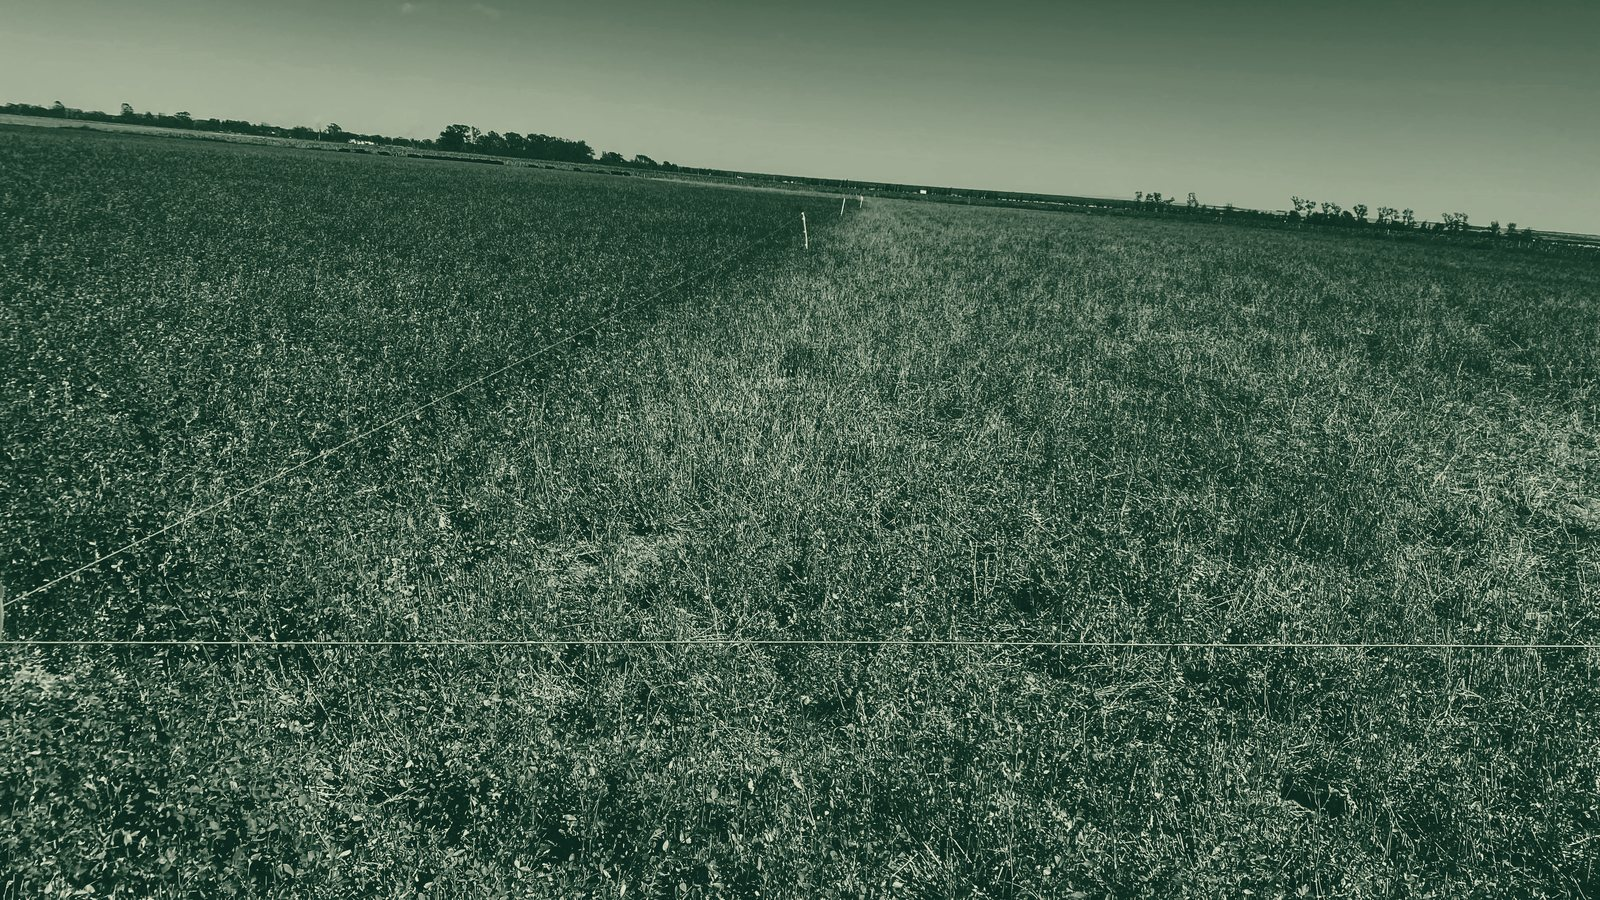
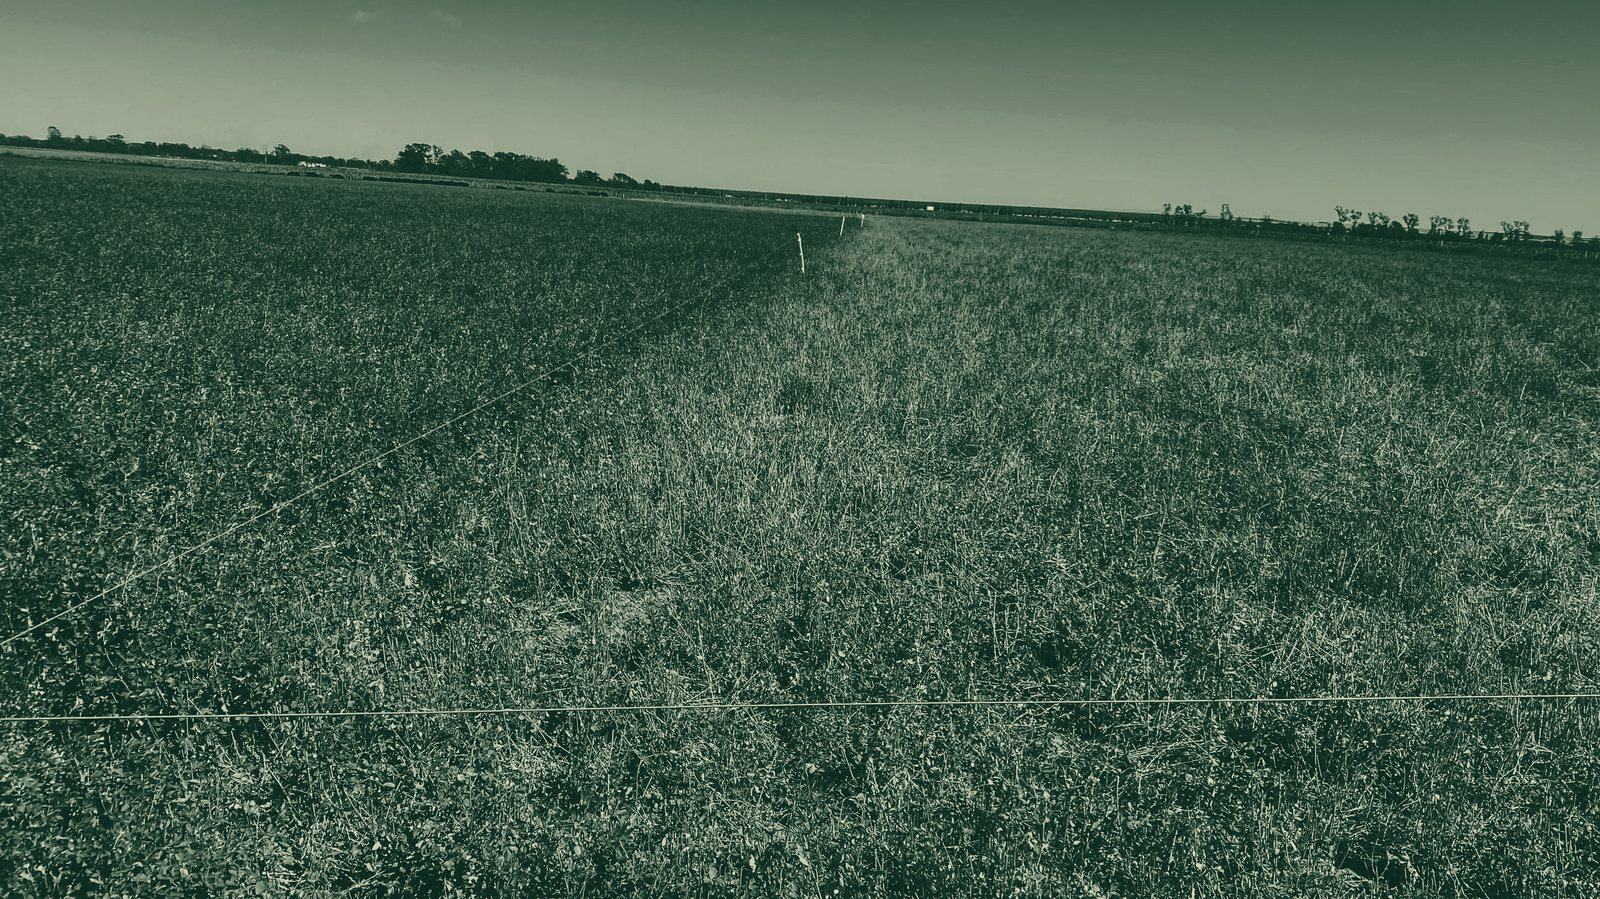
Demo fotos v2: set final de 5 (curado por el cliente), horizontes enderezados
Reemplaza pastoreo/rodeo por verdeo(5621), pastizal(8775), cria(114309), colorada(5977); mantiene manejo. Endereza horizonte de verdeo y manejo (~1deg). Bandas en Que es / Servicios / Datos / Que entregamos / Nuestro enfoque. FotoBanda con variante para fondo oscuro.

diff --git a/src/components/brand/FotoBanda.tsx b/src/components/brand/FotoBanda.tsx
@@ -3,16 +3,23 @@ import Image from "next/image";
 /**
  * Banda de foto accesoria: contenida (no full-bleed), redondeada, lazy.
  * Las fotos vienen tratadas en duotono de marca para integrarse a la paleta.
+ * `dark` ajusta el borde para secciones de fondo oscuro.
  */
 export default function FotoBanda({
   src,
   alt,
+  dark = false,
 }: {
   src: string;
   alt: string;
+  dark?: boolean;
 }) {
   return (
-    <div className="relative w-full aspect-[16/9] overflow-hidden rounded-2xl border border-verde-profundo/10 shadow-sm">
+    <div
+      className={`relative w-full aspect-[16/9] overflow-hidden rounded-2xl border ${
+        dark ? "border-blanco/10" : "border-verde-profundo/10 shadow-sm"
+      }`}
+    >
       <Image
         src={src}
         alt={alt}

diff --git a/src/components/AISection.tsx b/src/components/AISection.tsx
@@ -3,6 +3,7 @@
 import { motion, useInView } from "framer-motion";
 import { useRef } from "react";
 import BulletGroma from "@/components/brand/BulletGroma";
+import FotoBanda from "@/components/brand/FotoBanda";
 
 const aiUseCases = [
   "Integrar y procesar grandes volúmenes de información productiva, económica y ambiental",
@@ -71,6 +72,10 @@ export default function AISection() {
               no de decisiones automáticas.
             </span>
           </motion.p>
+
+          <div className="mt-12 sm:mt-16 max-w-3xl mx-auto">
+            <FotoBanda src="/fotos/colorada.jpg" alt="Vaca colorada en el campo" dark />
+          </div>
         </motion.div>
       </div>
     </section>

diff --git a/src/components/Servicios.tsx b/src/components/Servicios.tsx
@@ -3,6 +3,7 @@
 import { useState } from "react";
 import { ChevronDown } from "lucide-react";
 import FadeIn from "@/components/brand/FadeIn";
+import FotoBanda from "@/components/brand/FotoBanda";
 import { servicios, type Servicio } from "@/data/servicios";
 
 function ServicioItem({
@@ -160,6 +161,10 @@ export default function Servicios() {
               />
             </FadeIn>
           ))}
+        </div>
+
+        <div className="mt-12 sm:mt-16 max-w-3xl mx-auto">
+          <FotoBanda src="/fotos/pastizal.jpg" alt="Hacienda en pastizal natural" dark />
         </div>
       </div>
     </section>

diff --git a/src/components/Deliverables.tsx b/src/components/Deliverables.tsx
@@ -48,7 +48,7 @@ export default function Deliverables() {
         </FadeIn>
 
         <div className="mt-12 sm:mt-16 max-w-3xl mx-auto">
-          <FotoBanda src="/fotos/rodeo.jpg" alt="Rodeo Angus en el campo" />
+          <FotoBanda src="/fotos/cria.jpg" alt="Vaca con sus terneros en la pastura" />
         </div>
       </div>
     </section>

diff --git a/src/components/WhatIsGromatik.tsx b/src/components/WhatIsGromatik.tsx
@@ -50,7 +50,7 @@ export default function WhatIsGromatik() {
         </motion.div>
 
         <div className="mt-12 sm:mt-16 max-w-3xl mx-auto">
-          <FotoBanda src="/fotos/pastoreo.jpg" alt="Rodeo pastoreando en el campo" />
+          <FotoBanda src="/fotos/verdeo.jpg" alt="Hacienda pastoreando un verdeo" />
         </div>
       </div>
     </section>